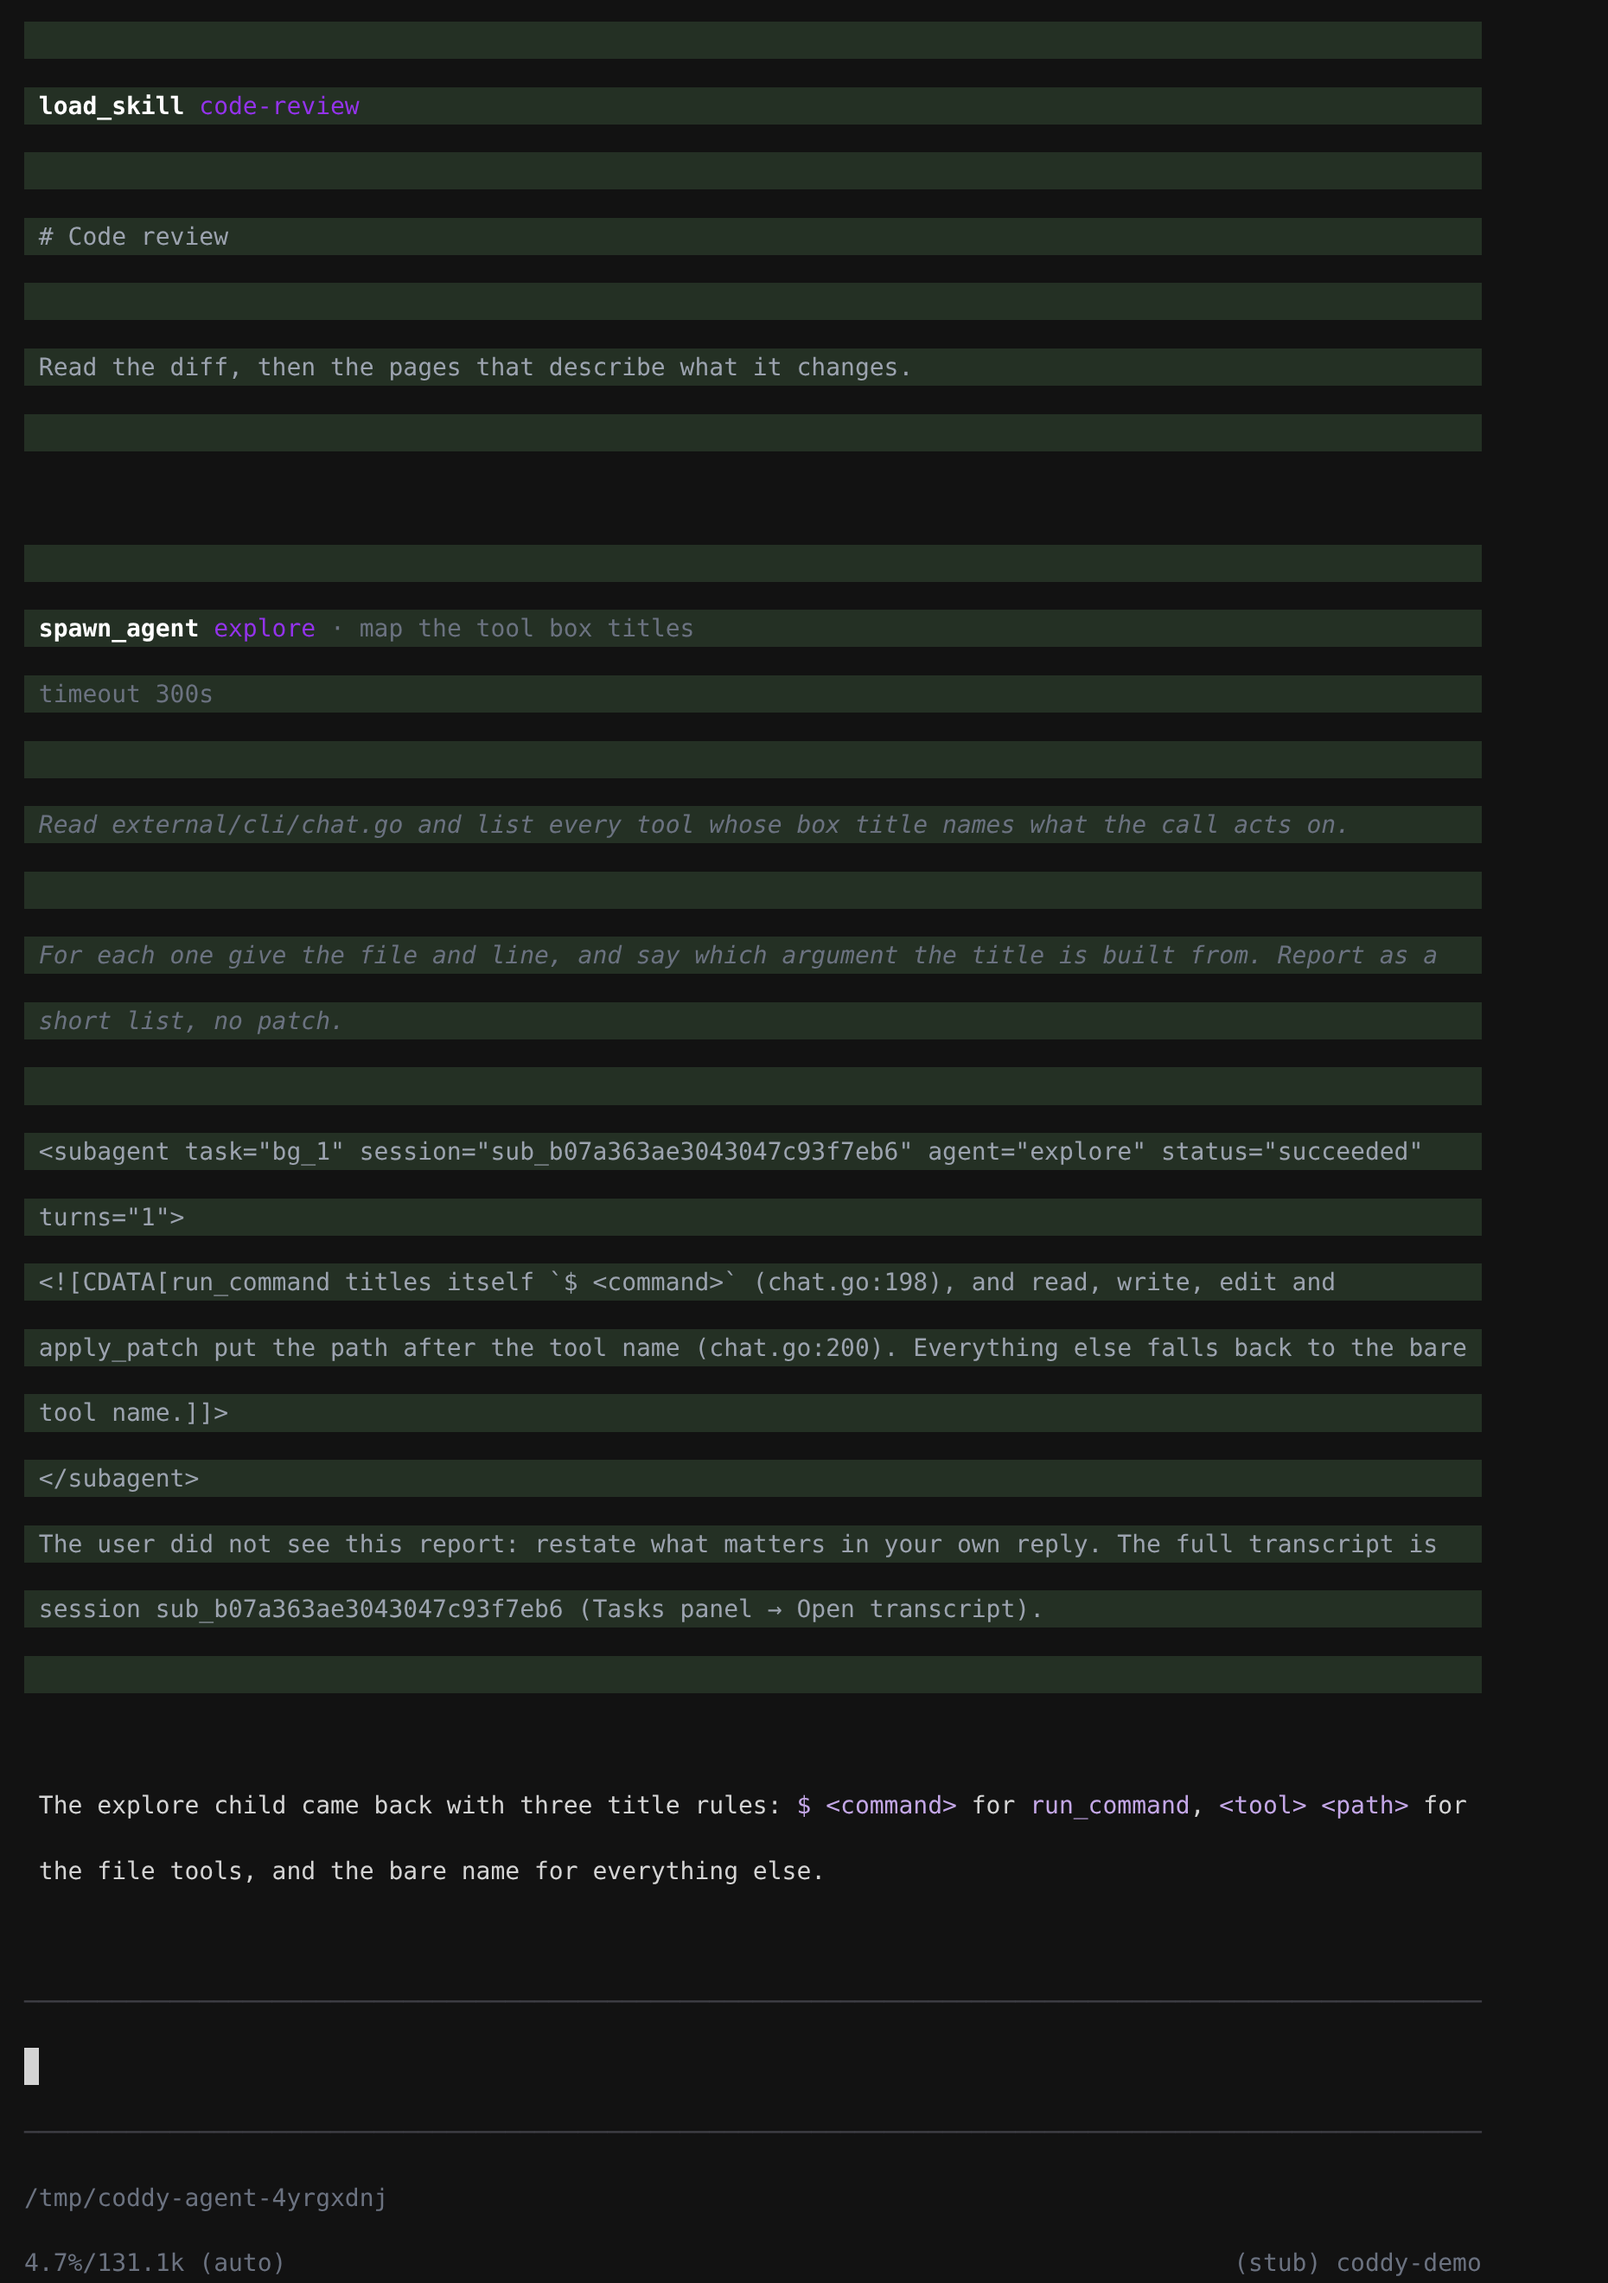
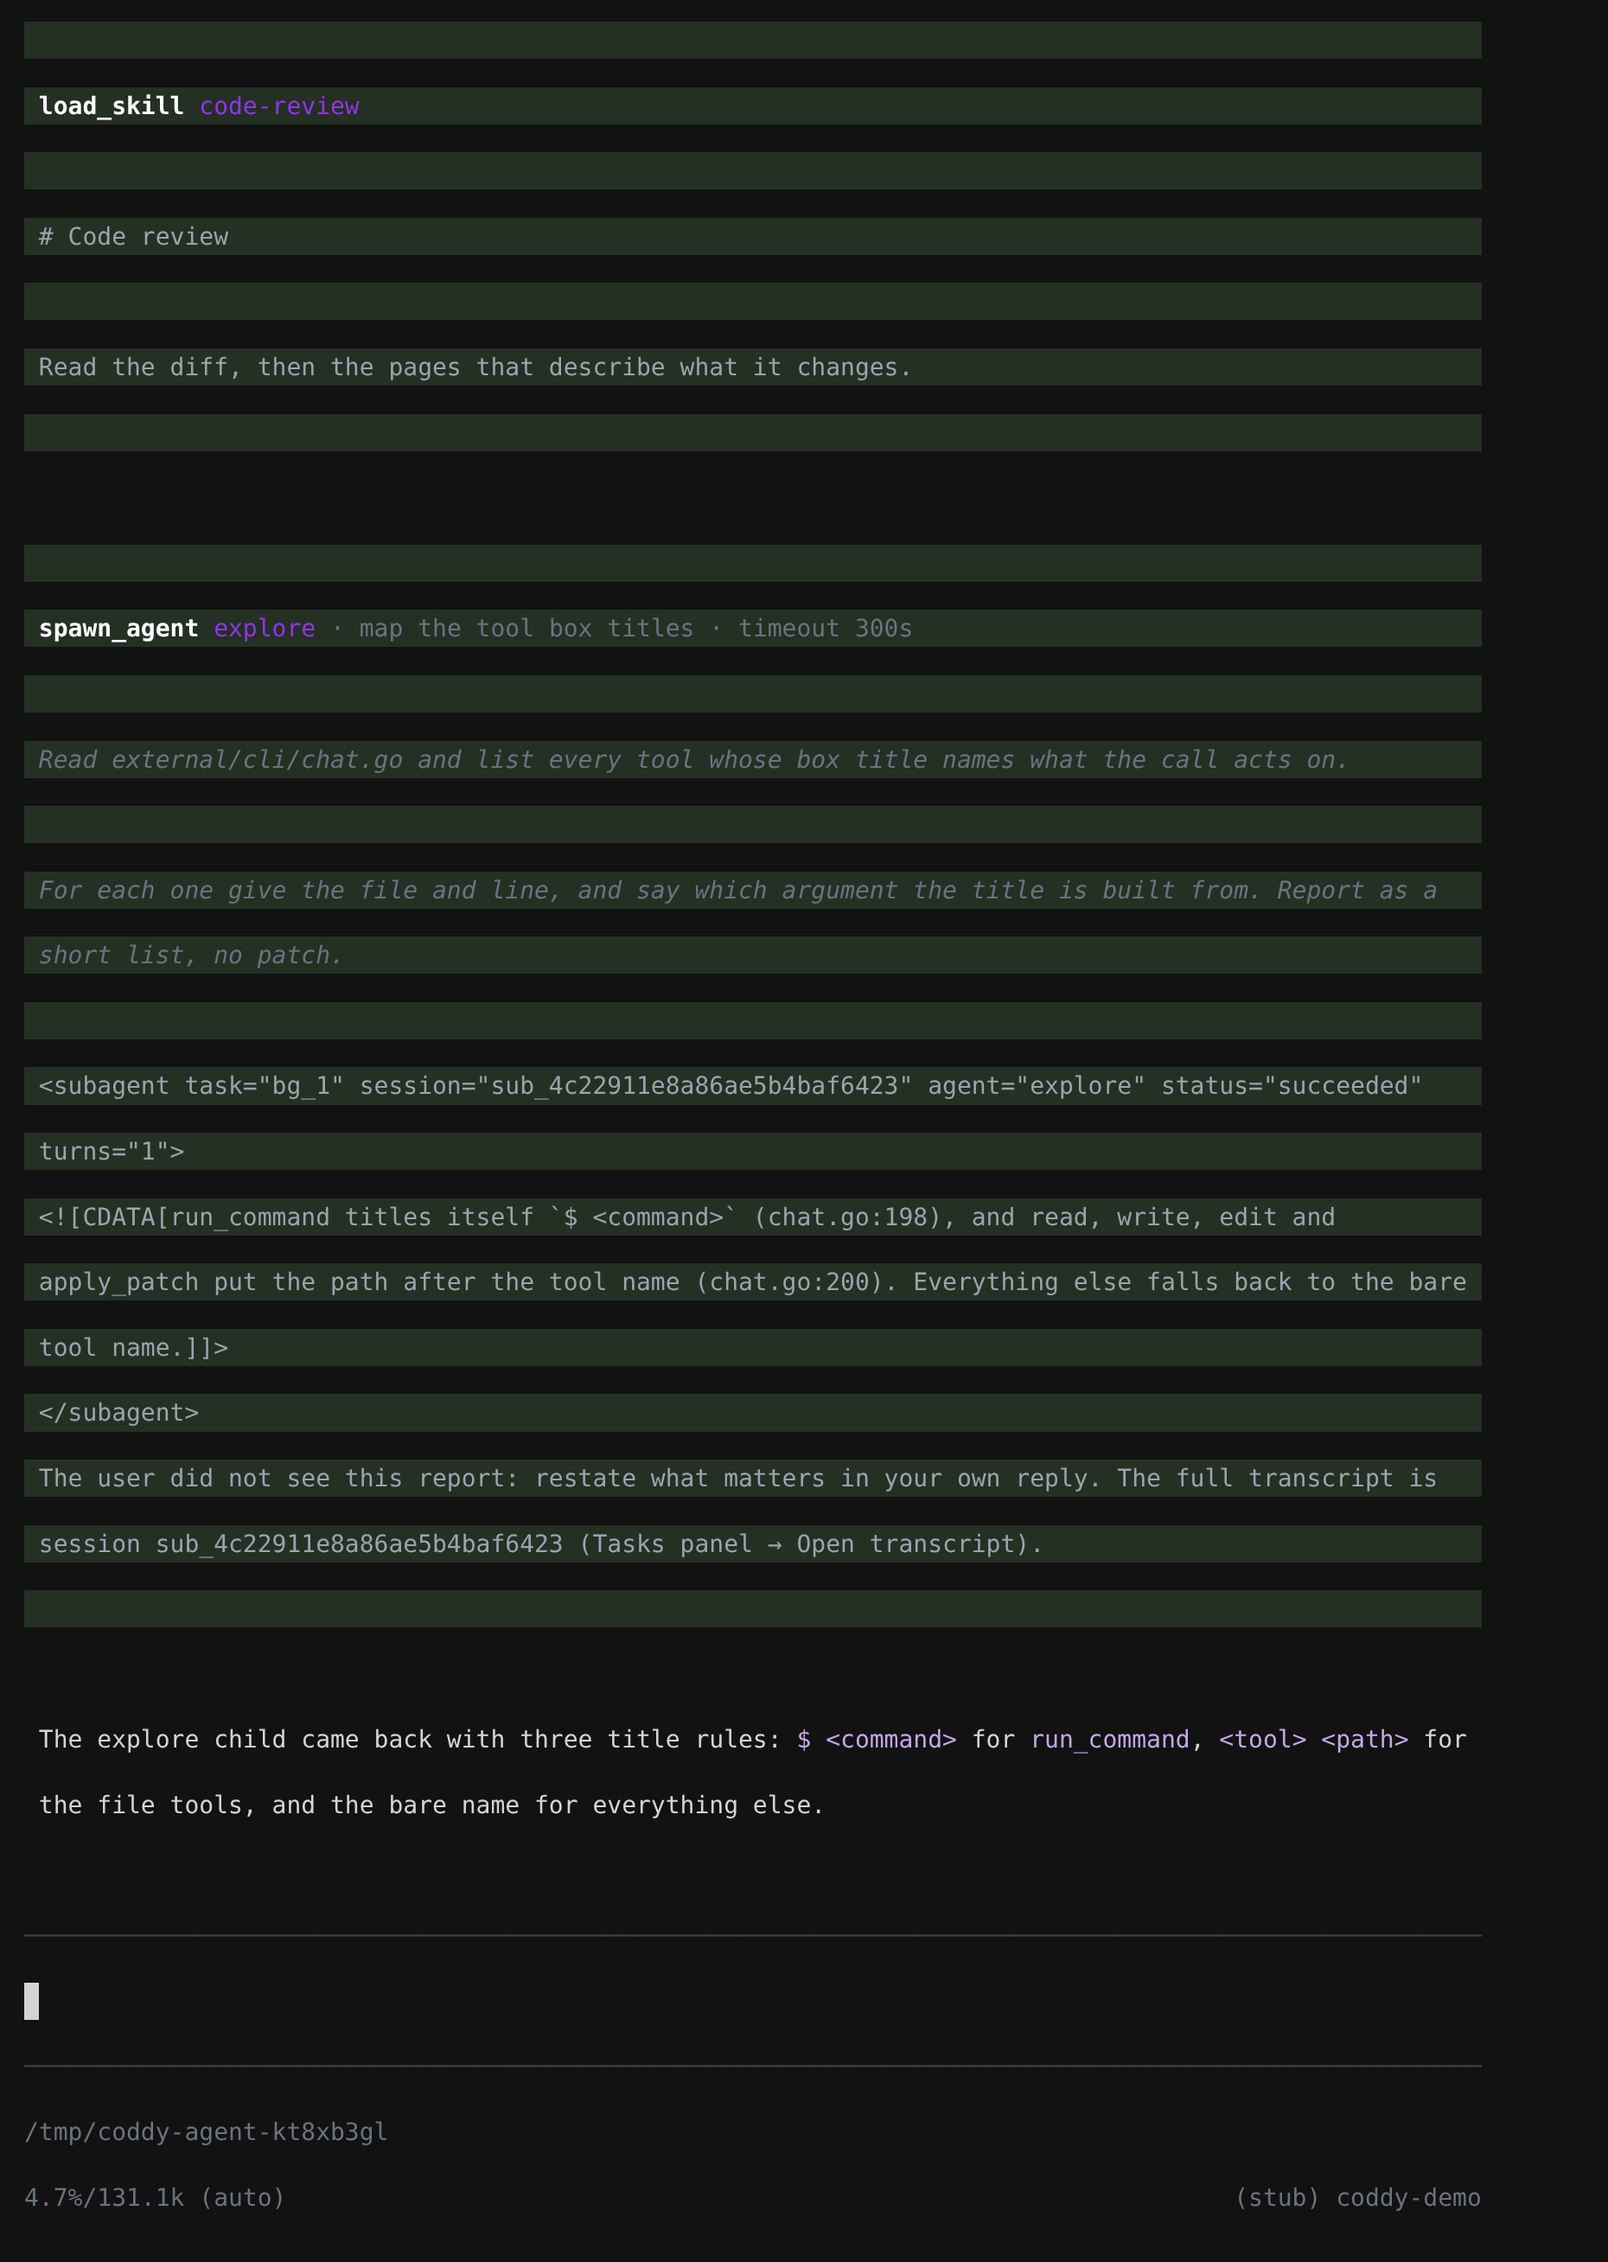
feat(cli): a delegation says how it was launched on its own title row
The options a `spawn_agent` run was launched with sat on a line of their own
under the title, which read as a second heading for a box that already has one.
They are the same kind of fact as the task label beside the subagent, so they
follow it behind the same separator:

    spawn_agent explore · map the tool box titles · background · timeout 300s

Each part after the subagent appears only when the call passed it, so a plain
foreground delegation is still just `spawn_agent explore`. The prompt the child
received now follows the title directly.

diff --git a/external/cli/chat.go b/external/cli/chat.go
@@ -232,8 +232,8 @@ func (t *toolBox) title() string {
 	case "spawn_agent":
 		if t.spawned {
 			title := t.theme.Bold(t.name) + " " + t.theme.Fg(roleAccent, t.spawn.agent)
-			if t.spawn.description != "" {
-				title += t.theme.Fg(roleDim, " · "+t.spawn.description)
+			if tail := t.spawn.titleTail(); tail != "" {
+				title += t.theme.Fg(roleDim, tail)
 			}
 			return title
 		}
@@ -305,17 +305,25 @@ func parseSpawnAgentArgs(argsJSON string) (spawnAgentDetails, bool) {
 	return details, true
 }
 
-// launchLine names the options the delegation was started with. A foreground
-// run on the configured timeout sets none of them and gets no line.
-func (d spawnAgentDetails) launchLine() string {
+// titleTail is what follows the subagent on the title row: the call's own task
+// label, then the options the run was launched with, each behind the same
+// separator. A foreground run on the configured timeout with no description
+// sets none of them and the row ends at the agent.
+func (d spawnAgentDetails) titleTail() string {
 	var parts []string
+	if d.description != "" {
+		parts = append(parts, d.description)
+	}
 	if d.background {
 		parts = append(parts, "background")
 	}
 	if d.timeout > 0 {
 		parts = append(parts, "timeout "+itoa(d.timeout)+"s")
 	}
-	return strings.Join(parts, " · ")
+	if len(parts) == 0 {
+		return ""
+	}
+	return " · " + strings.Join(parts, " · ")
 }
 
 // Longest delegated prompt a collapsed spawn_agent box shows. The prompt is
@@ -489,24 +497,18 @@ func (t *toolBox) rebuild() {
 	t.AddChild(box)
 }
 
-// addDelegation writes what a spawn_agent call handed to its child: how the
-// run was launched, then the prompt itself. A delegated turn happens out of
-// sight, so without this the operator watches a box that says only that some
-// subagent is busy. The child's report arrives later as the box body, which
-// puts the task and the answer in one block. Collapsed, a long prompt is cut
-// and ctrl+o shows the whole of it.
+// addDelegation writes what a spawn_agent call handed to its child: the prompt
+// itself, under a title row that already names the subagent, the task and the
+// options the run was launched with. A delegated turn happens out of sight, so
+// without this the operator watches a box that says only that some subagent is
+// busy. The child's report arrives later as the box body, which puts the task
+// and the answer in one block. Collapsed, a long prompt is cut and ctrl+o
+// shows the whole of it.
 func (t *toolBox) addDelegation(box *tui.Box) {
-	if !t.spawned {
+	if !t.spawned || t.spawn.prompt == "" {
 		return
 	}
-	details := t.spawn
-	if line := details.launchLine(); line != "" {
-		box.AddChild(tui.NewText(t.theme.Fg(roleDim, line), 0, 0, nil))
-	}
-	if details.prompt == "" {
-		return
-	}
-	prompt, cut := details.prompt, false
+	prompt, cut := t.spawn.prompt, false
 	if !t.expanded {
 		prompt, cut = truncatePrompt(prompt, collapsedPreviewLines, collapsedPromptChars)
 	}

diff --git a/external/cli/chat_test.go b/external/cli/chat_test.go
@@ -559,15 +559,18 @@ func TestSpawnAgentToolBoxNamesTheAgentAndShowsTheDelegatedPrompt(t *testing.T) 
 
 	text := toolBoxText(t, tb, 100)
 	for _, want := range []string{
-		"spawn_agent general",
-		"review the diff",
-		"timeout 300s",
 		"Read internal/agent/react.go",
 		"and report what changed",
 	} {
 		if !strings.Contains(text, want) {
 			t.Fatalf("%q missing from the box:\n%s", want, text)
 		}
+	}
+	// The subagent, the task and the options the run was launched with belong
+	// on the title row, each behind the same separator.
+	title := tui.StripTerminalSequences(tb.title())
+	if title != "spawn_agent general · review the diff · timeout 300s" {
+		t.Fatalf("title row reads %q", title)
 	}
 }
 
@@ -578,7 +581,7 @@ func TestSpawnAgentToolBoxReadsLabelledArguments(t *testing.T) {
 	tb := newToolBox(newTheme("dark"), "call-15", "spawn_agent", "other", nil)
 	tb.SetArgs(`Arguments: {"agent":"general","description":"check the docs","prompt":"Read the page"}`)
 	text := toolBoxText(t, tb, 100)
-	for _, want := range []string{"spawn_agent general", "check the docs", "Read the page"} {
+	for _, want := range []string{"spawn_agent general · check the docs", "Read the page"} {
 		if !strings.Contains(text, want) {
 			t.Fatalf("%q missing from a labelled delegation:\n%s", want, text)
 		}
@@ -613,13 +616,11 @@ func TestSpawnAgentToolBoxNamesABackgroundRun(t *testing.T) {
 	tb.SetArgs(`{"agent":"explore","prompt":"Find every caller","background":true}`)
 	tb.SetStatus("in_progress", "", 0, 0)
 
-	text := toolBoxText(t, tb, 100)
-	if !strings.Contains(text, "spawn_agent explore") || !strings.Contains(text, "background") {
-		t.Fatalf("background delegation renders as:\n%s", text)
-	}
-	// Nothing was set, so no timeout is claimed.
-	if strings.Contains(text, "timeout") {
-		t.Fatalf("a timeout the call never passed reached the box:\n%s", text)
+	// No description and no timeout were passed, so neither is claimed: the
+	// row carries the agent and the one option that was set.
+	title := tui.StripTerminalSequences(tb.title())
+	if title != "spawn_agent explore · background" {
+		t.Fatalf("title row reads %q", title)
 	}
 }
 

diff --git a/docs/surfaces/console.md b/docs/surfaces/console.md
@@ -55,12 +55,12 @@ Top to bottom:
   blocks (collapse with `ctrl+t`); tool calls as background-tinted boxes
   (pending → success green tint / error red tint) with a bold title naming
   what the call acts on (`read <path>`, `$ command`, `load_skill <skill>`,
-  `spawn_agent <subagent> · <task>`), preview capped at 10 lines, and
-  `... (ctrl+o to expand)` reading the full result from
-  `sessions/<id>/tool_calls/`. A `spawn_agent` box also carries the
-  delegation itself: a dim line for the options the run was launched with
-  (`background`, `timeout 300s`) and, in dim italic under it, the prompt the
-  child received, cut at the first of 10 written lines or 600 characters with
+  `spawn_agent <subagent> · <task> · background · timeout 300s`, where each
+  part after the subagent appears only when the call passed it), preview
+  capped at 10 lines, and `... (ctrl+o to expand)` reading the full result
+  from `sessions/<id>/tool_calls/`. A `spawn_agent` box also carries the
+  delegation itself: under the title, in dim italic, the prompt the child
+  received, cut at the first of 10 written lines or 600 characters with
   `... (ctrl+o for the whole prompt)`. The child's report lands below it as
   the box body, so the task and the answer read as one block.
 - **Status**: braille spinner `⠋⠙⠹...` at 80 ms with a live status line naming
@@ -340,9 +340,9 @@ with its elapsed counter for as long as the child runs.
 
 ![A delegated run in the console transcript](../assets/cli-tui/13-subagent-delegation.png)
 
-*A loaded skill and a delegated run: the box titles name the skill and the
-subagent, the dim italic block is the prompt the child received, and the
-child's report follows it*
+*A loaded skill and a delegated run: the box titles name the skill, and the
+subagent with the task and the timeout it was given; the dim italic block is
+the prompt the child received, and the child's report follows it*
 
 A child's permission request, while its spawning turn is
 still alive, opens the usual modal in the parent chat with the title prefixed

diff --git a/docs/assets/INDEX.md b/docs/assets/INDEX.md
@@ -101,7 +101,7 @@ Generated by `make docs`. "Used by" lists the files that reference the asset.
 | `10-usage-warning.png` | 233 KB | docs/surfaces/console.md |
 | `11-usage-blocked.png` | 233 KB | docs/surfaces/console.md |
 | `12-usage-resuming.png` | 239 KB | docs/surfaces/console.md |
-| `13-subagent-delegation.png` | 238 KB | docs/surfaces/console.md |
+| `13-subagent-delegation.png` | 236 KB | docs/surfaces/console.md |
 
 ### docs/assets/subagents
 
